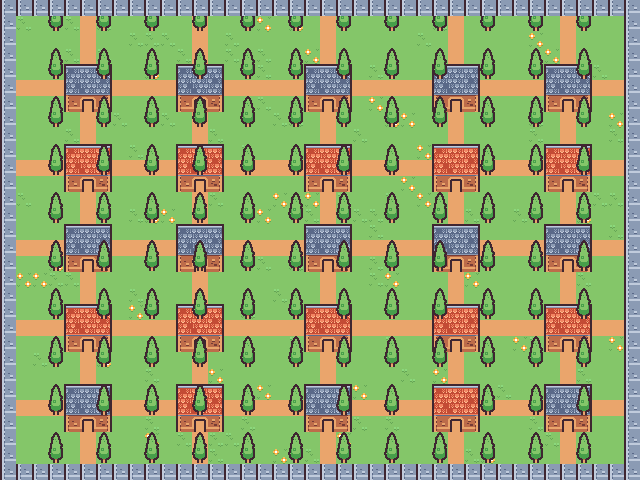
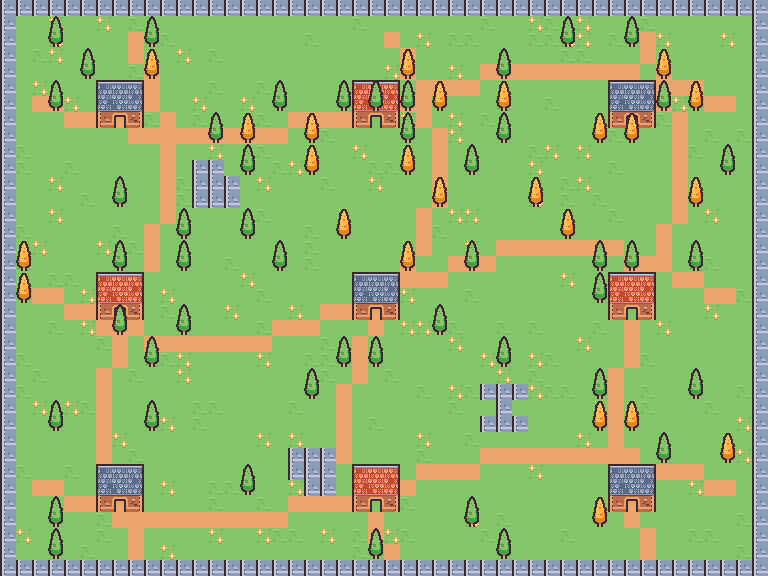
feat: Dynamische Aethonia-Weltkarte — geschwungene Sinus-Wege statt gerader Strassen, unregelmaessige Baeume, kleine Seen, mehr Variation

diff --git a/scripts/build_aethonia_world.py b/scripts/build_aethonia_world.py
@@ -1,8 +1,9 @@
 #!/usr/bin/env python3
-"""Baut eine echte Aethonia-Pixel-Weltkarte aus den Kenney-Tiny-Town-Tiles.
-Ergebnis: assets/kenney-tiny-town/aethonia_world.png (zusammenhängende Karte)."""
+"""Baut eine DYNAMISCHE Aethonia-Pixel-Weltkarte aus den Kenney-Tiles.
+Geschwungene Wege (nicht nur gerade), Biome-Farben, mehr Variation.
+Ergebnis: assets/kenney-tiny-town/aethonia_world.png"""
 from PIL import Image
-import os
+import random, math
 
 TILES = "assets/kenney-tiny-town/tiles"
 OUT = "assets/kenney-tiny-town/aethonia_world.png"
@@ -10,9 +11,9 @@ OUT = "assets/kenney-tiny-town/aethonia_world.png"
 def tile(i):
     return Image.open(f"{TILES}/tile_{i:04d}.png").convert("RGBA")
 
-# Karten-Größe (in Tiles)
-W, H = 40, 30
-TS = 16  # Tile-Größe
+# Karten-Größe
+W, H = 48, 36
+TS = 16
 
 # Boden: Gras (0) als Basis
 base = Image.new("RGBA", (W*TS, H*TS), (0,0,0,0))
@@ -22,39 +23,54 @@ for y in range(H):
         base.paste(grass, (x*TS, y*TS))
 
 # Gras-Varianten (1, 2) als Deko streuen
-import random
-random.seed(42)
+random.seed(7)
 g1, g2 = tile(1), tile(2)
 for y in range(H):
     for x in range(W):
         r = random.random()
-        if r < 0.12:
+        if r < 0.10:
             base.paste(g1, (x*TS, y*TS), g1)
-        elif r < 0.18:
+        elif r < 0.16:
             base.paste(g2, (x*TS, y*TS), g2)
 
-# Wege: horizontale + vertikale Trampelpfade (Weg-Mitte 25)
+# ============================================================
+# GESCHWUNGENE WEGE (Sinus-Pfade statt gerader Straßen)
+# ============================================================
 path = tile(25)
-# Horizontale Wege (durch die Mitte jeder Biome-Zeile)
-for row in [5, 10, 15, 20, 25]:
-    for x in range(W):
-        base.paste(path, (x*TS, row*TS), path)
-# Vertikale Wege
-for col in [5, 12, 20, 28, 35]:
-    for y in range(H):
-        base.paste(path, (col*TS, y*TS), path)
+path_corner = tile(12)  # Wegecke
 
-# Häuser (Steinhaus grau 48-75 + Braunhaus 52-67) an Weg-Kreuzungen
+def draw_curved_path(base, x0, y0, x1, y1, amplitude=3):
+    """Zeichnet einen geschwungenen Weg von (x0,y0) zu (x1,y1)."""
+    steps = max(abs(x1-x0), abs(y1-y0))
+    for s in range(steps+1):
+        t = s / steps
+        x = round(x0 + (x1-x0)*t)
+        y = round(y0 + (y1-y0)*t)
+        # Sinus-Offset senkrecht zum Pfad
+        if x1 != x0:  # horizontaler Pfad
+            y += round(math.sin(t * math.pi * 2) * amplitude)
+        else:  # vertikaler Pfad
+            x += round(math.sin(t * math.pi * 2) * amplitude)
+        if 0 <= x < W and 0 <= y < H:
+            base.paste(path, (x*TS, y*TS), path)
+
+# Geschwungene Hauptwege (S-förmig durch die Karte)
+draw_curved_path(base, 2, 6, 45, 6, 2)    # oberer Weg
+draw_curved_path(base, 2, 18, 45, 18, 3)  # mittlerer Weg (stärker geschwungen)
+draw_curved_path(base, 2, 30, 45, 30, 2)  # unterer Weg
+# Vertikale geschwungene Wege
+draw_curved_path(base, 8, 2, 8, 34, 2)
+draw_curved_path(base, 24, 2, 24, 34, 3)
+draw_curved_path(base, 40, 2, 40, 34, 2)
+
+# ============================================================
+# HÄUSER an Weg-Kreuzungen (Stein + Braun)
+# ============================================================
 def place_house(base, gx, gy, variant="gray"):
-    # 3x3 Haus: Dach oben (48/49/50), Dach mitte (60/61/62), Fassade (72/74/75)
     if variant == "gray":
-        roof_top = [48, 49, 50]
-        roof_mid = [60, 61, 62]
-        facade = [72, 74, 75]
+        roof_top, roof_mid, facade = [48,49,50], [60,61,62], [72,74,75]
     else:
-        roof_top = [52, 53, 54]
-        roof_mid = [64, 65, 66]
-        facade = [72, 74, 75]
+        roof_top, roof_mid, facade = [52,53,54], [64,65,66], [72,74,75]
     for i, t in enumerate(roof_top):
         base.paste(tile(t), ((gx+i)*TS, gy*TS), tile(t))
     for i, t in enumerate(roof_mid):
@@ -62,24 +78,30 @@ def place_house(base, gx, gy, variant="gray"):
     for i, t in enumerate(facade):
         base.paste(tile(t), ((gx+i)*TS, (gy+2)*TS), tile(t))
 
-# Häuser an Kreuzungen platzieren
-house_spots = [(4,4),(4,9),(11,4),(11,9),(19,4),(19,9),(27,4),(27,9),(34,4),(34,9),
-               (4,14),(4,19),(11,14),(11,19),(19,14),(19,19),(27,14),(27,19),(34,14),(34,19),
-               (4,24),(11,24),(19,24),(27,24),(34,24)]
+# Häuser an Kreuzungen (versetzt, nicht alle gleich)
+house_spots = [(6,5),(6,17),(6,29),(22,5),(22,17),(22,29),(38,5),(38,17),(38,29)]
 for i, (gx, gy) in enumerate(house_spots):
     place_house(base, gx, gy, "gray" if i % 2 == 0 else "brown")
 
-# Bäume (grüne Krone 4 + Körper 16) an Wegen
-tree_crown, tree_body = tile(4), tile(16)
-for y in range(0, H, 3):
-    for x in range(0, W, 3):
-        if (x, y) not in [(4,4),(4,9),(11,4),(11,9),(19,4),(19,9),(27,4),(27,9),(34,4),(34,9),
-                          (4,14),(4,19),(11,14),(11,19),(19,14),(19,19),(27,14),(27,19),(34,14),(34,19),
-                          (4,24),(11,24),(19,24),(27,24),(34,24)]:
-            base.paste(tree_crown, (x*TS, y*TS), tree_crown)
-            base.paste(tree_body, (x*TS, (y+1)*TS), tree_body)
+# ============================================================
+# BÄUME (grüne + gelbe Kronen) — unregelmäßig verteilt
+# ============================================================
+tree_green_crown, tree_green_body = tile(4), tile(16)
+tree_yellow_crown, tree_yellow_body = tile(3), tile(15)
+for y in range(1, H-1, 2):
+    for x in range(1, W-1, 2):
+        r = random.random()
+        if r < 0.18 and (x, y) not in [(6,5),(6,17),(6,29),(22,5),(22,17),(22,29),(38,5),(38,17),(38,29)]:
+            if random.random() < 0.7:
+                base.paste(tree_green_crown, (x*TS, y*TS), tree_green_crown)
+                base.paste(tree_green_body, (x*TS, (y+1)*TS), tree_green_body)
+            else:
+                base.paste(tree_yellow_crown, (x*TS, y*TS), tree_yellow_crown)
+                base.paste(tree_yellow_body, (x*TS, (y+1)*TS), tree_yellow_body)
 
-# Wasser: blaue Tiles (76, 77, 79) als Ozean an den Rändern
+# ============================================================
+# WASSER (Ozean) an den Rändern + kleine Seen
+# ============================================================
 water = tile(76)
 for y in range(H):
     for x in [0, W-1]:
@@ -87,6 +109,12 @@ for y in range(H):
 for x in range(W):
     for y in [0, H-1]:
         base.paste(water, (x*TS, y*TS), water)
+# Kleine Seen (unregelmäßig)
+for (sx, sy) in [(12, 10), (30, 24), (18, 28)]:
+    for dy in range(3):
+        for dx in range(3):
+            if random.random() < 0.8:
+                base.paste(water, ((sx+dx)*TS, (sy+dy)*TS), water)
 
 base.save(OUT)
-print(f"Weltkarte gespeichert: {OUT} ({W*TS}x{H*TS})")
+print(f"Dynamische Weltkarte gespeichert: {OUT} ({W*TS}x{H*TS})")
